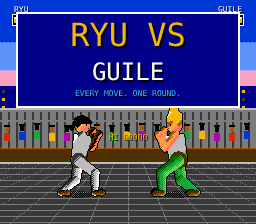
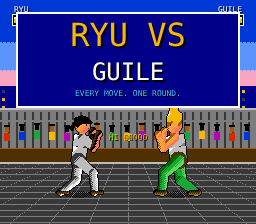
Fighter anatomy: pelvis/hips, spine, shoulders, torso twist, weight shift, ankle+heel/toe, joint-limit IK; anatomy test
Claude-Session: https://claude.ai/code/session_01TLKWsn45b5mPjBKpKawYZm

diff --git a/kit/cabinet/pixrig.js b/kit/cabinet/pixrig.js
@@ -56,19 +56,23 @@ const PRIG = (() => {
     sonic:{ lean:8, hip:56, fa:[34, 0], fb:[-34, 0], ha:[62, -2], hb:[-24, 12] }, flash:{ lean:0, hip:78, fa:[44, 104], fb:[-14, 40], ha:[10, 22], hb:[-10, 18] },
     hit:{ lean:-16, hip:58, fa:[16, 0], fb:[-20, 0], ha:[-10, -26], hb:[-22, -16] }, hitc:{ lean:-8, hip:36, fa:[34, 0], fb:[-26, 0], ha:[-6, -18], hb:[-14, -12] }, block:{ lean:2, hip:50, fa:[26, 0], fb:[-26, 0], ha:[24, 14], hb:[18, 20] }, blockc:{ lean:6, hip:34, fa:[34, 0], fb:[-26, 0], ha:[22, 10], hb:[16, 14] },
     knock:{ lean:-50, hip:70, fa:[20, 20], fb:[-10, 10], ha:[-20, 10], hb:[-30, 4] }, ko:{ lean:0, hip:62, fa:[6, 0], fb:[-6, 0], ha:[10, -34], hb:[-6, -30] }, getup:{ lean:30, hip:34, fa:[30, 0], fb:[-20, 0], ha:[24, -14], hb:[12, -10] } };
-  /* 2-bone IK. kind 'leg': knee on the +x (forward) side; kind 'arm': elbow on the lower side. (A fixed sign bent the knees BACKWARDS: that was the awkward-legs bug.) */
-  const ik = (r, p, l1, l2, kind) => { let dx = p[0] - r[0], dy = p[1] - r[1], d = Math.hypot(dx, dy), mx = l1 + l2 - 0.5; if (d > mx) { dx *= mx / d; dy *= mx / d; d = mx; } if (d < 1) d = 1;
+  /* 2-bone IK with anatomical joint limits: the bend direction is picked by the sign of cross(thigh, shin) so knees and elbows can never hyperextend. (A fixed sign bent the knees BACKWARDS: that was the awkward-legs bug.) */
+  const ik = (r, p, l1, l2, kind) => { let dx = p[0] - r[0], dy = p[1] - r[1], d = Math.hypot(dx, dy), mx = l1 + l2 - 0.5, mn = kind === 'leg' ? 14 : 12; if (d < mn) { if (d < 0.5) { dx = mn; dy = 0; } else { dx *= mn / d; dy *= mn / d; } d = mn; } if (d > mx) { dx *= mx / d; dy *= mx / d; d = mx; } if (d < 1) d = 1;
     const a = Math.acos(Math.max(-1, Math.min(1, (l1 * l1 + d * d - l2 * l2) / (2 * l1 * d)))), b0 = Math.atan2(dy, dx); let best = null;
-    for (const sg of [-1, 1]) { const b = b0 + sg * a, m = [r[0] + l1 * Math.cos(b), r[1] + l1 * Math.sin(b)], sc = kind === 'leg' ? m[0] : -m[1] - 0.15 * m[0]; if (!best || sc > best.sc) best = { m, sc }; }
+    for (const sg of [-1, 1]) { const b = b0 + sg * a, m = [r[0] + l1 * Math.cos(b), r[1] + l1 * Math.sin(b)], cx = (m[0] - r[0]) * (r[1] + dy - m[1]) - (m[1] - r[1]) * (r[0] + dx - m[0]), sc = kind === 'leg' ? -cx : cx;   /* joint limit: knee flexes only backwards (heel to buttock), elbow only forwards (forearm to chest) */ if (!best || sc > best.sc) best = { m, sc }; }
     return [best.m, [r[0] + dx, r[1] + dy]]; };
   const mix = (a, b, e) => a + (b - a) * e, mix2 = (a, b, e) => [mix(a[0], b[0], e), mix(a[1], b[1], e)];
   function skelG(pose, env, ph, rotDeg) {
     const P = PG[pose] || GUARD, e = Math.max(0, Math.min(1, env === undefined ? 1 : env)), base = (pose === 'idle' || pose === 'walk') ? GUARD : (/^(crouch|cjab|cupper|clkick|cmkick|sweep|hitc|blockc)/.test(pose) ? PG.crouch : (/^j/.test(pose) ? PG.jump : GUARD)); const J = {};
     const lean = mix(base.lean, P.lean, e), hipy = mix(base.hip, P.hip, e) + (pose === 'idle' ? 2 * Math.sin(ph || 0) : 0); let fa = mix2(base.fa, P.fa, e), fb = mix2(base.fb, P.fb, e), ha = mix2(base.ha, P.ha, e), hb = mix2(base.hb, P.hb, e);
     if (pose === 'walk') { const s = Math.sin(ph), c = Math.cos(ph); fa = [24 + 14 * s, 14 * Math.max(0, c)]; fb = [-24 - 14 * s, 14 * Math.max(0, -c)]; }
-    J.hip = [0, hipy]; J.sh = [44 * Math.sin(lean * Math.PI / 180), hipy + 44 * Math.cos(lean * Math.PI / 180)]; J.head = [J.sh[0] + 17 * Math.sin((lean - 4) * Math.PI / 180), J.sh[1] + 17 * Math.cos((lean - 4) * Math.PI / 180)];
-    [J.kneeA, J.footA] = ik([J.hip[0] + 3, J.hip[1]], [fa[0], fa[1]], 33, 33, 'leg'); [J.kneeB, J.footB] = ik([J.hip[0] - 3, J.hip[1]], [fb[0], fb[1]], 33, 33, 'leg');
-    [J.elbA, J.handA] = ik(J.sh, [J.sh[0] + ha[0], J.sh[1] + ha[1]], 27, 26, 'arm'); [J.elbB, J.handB] = ik(J.sh, [J.sh[0] + hb[0], J.sh[1] + hb[1]], 27, 26, 'arm');
+    /* anatomy: pelvis (two hip joints), spine (hip -> chest -> neck base), two shoulders, torso twist from punch reach, weight shift, ankle + heel/toe per foot */
+    const D2R = Math.PI / 180, tw = Math.max(-20, Math.min(32, (ha[0] - 28) * 0.38 - (hb[0] - 18) * 0.12)), hx = 0.12 * Math.max(0, ha[0] - 30) - 0.2 * Math.max(0, fa[0] - 34), Lr = lean * D2R;
+    J.hip = [hx, hipy]; J.chest = [hx + 24 * Math.sin(Lr * 0.8), hipy + 24 * Math.cos(Lr * 0.8)]; J.sh = [hx + 44 * Math.sin(Lr), hipy + 44 * Math.cos(Lr)]; J.head = [J.sh[0] + 17 * Math.sin((lean - 4) * D2R), J.sh[1] + 17 * Math.cos((lean - 4) * D2R)];
+    const st = Math.sin(tw * D2R); J.hipA = [J.hip[0] - 3.2 * st, hipy + 0.6]; J.hipB = [J.hip[0] + 3.2 * st, hipy - 0.6]; J.shA = [J.sh[0] + 6.5 * st, J.sh[1] - 3.5]; J.shB = [J.sh[0] - 6.5 * st, J.sh[1] - 4.5];
+    [J.kneeA, J.footA] = ik(J.hipA, [fa[0], fa[1]], 33, 33, 'leg'); [J.kneeB, J.footB] = ik(J.hipB, [fb[0], fb[1]], 33, 33, 'leg');
+    [J.elbA, J.handA] = ik(J.shA, [J.sh[0] + ha[0], J.sh[1] + ha[1]], 27, 26, 'arm'); [J.elbB, J.handB] = ik(J.shB, [J.sh[0] + hb[0], J.sh[1] + hb[1]], 27, 26, 'arm');
+    for (const q of ['A', 'B']) { const ft = J['foot' + q], kn = J['knee' + q], sa = Math.atan2(ft[1] - kn[1], ft[0] - kn[0]), ang = ft[1] < 3.5 ? 0 : sa + 80 * D2R, dx = Math.cos(ang), dy = Math.sin(ang); J['toe' + q] = [ft[0] + 11 * dx, ft[1] + 11 * dy]; J['heel' + q] = [ft[0] - 4 * dx, ft[1] - 4 * dy]; }
     const rot = (rotDeg || 0) * Math.PI / 180; if (rot) { const c = J.hip, cs = Math.cos(rot), sn = Math.sin(rot); for (const k in J) { const x = J[k][0] - c[0], y = J[k][1] - c[1]; J[k] = [c[0] + x * cs - y * sn, c[1] + x * sn + y * cs]; } }
     J.lying = pose === 'ko'; J.free = !!rot || /^j|dp|flash|tatsu|knock/.test(pose);
     if (J.lying) { const c = J.hip; for (const k in J) if (typeof J[k] === 'object') { const x = J[k][0] - c[0], y = J[k][1] - c[1]; J[k] = [c[0] - y, c[1] + x]; } const my = (J.hip[1] + J.sh[1] + J.head[1] + J.footA[1] + J.footB[1]) / 5; for (const k in J) if (typeof J[k] === 'object') J[k] = [J[k][0] - 6, J[k][1] - my + 12]; }
@@ -129,16 +133,16 @@ const PRIG = (() => {
     if (kind === 'fighter' && (vr === 'ryu' || vr === 'guile')) {
       const ry = vr === 'ryu', hd = S.head, big = ry ? 1 : 1.18, top = ry ? [DG, L, W] : [D, L, W], pants = ry ? [DG, L, W] : [F, GR, E], skin = R.skin, boot = ry ? [K, M, T] : [K, M, T];
       const Ck = (a, b, w1, w2, r, fl) => cap(a, b, w(w1 * big), w(w2 * big), r, fl);
-      Ck(S.sh, S.elbB, 6, 5, ry ? top : skin); Ck(S.elbB, S.handB, 5, 4.6, ry ? [M, R, O] : skin); cap(S.handB, S.handB, w(5.2), w(5.2), ry ? [M, R, O] : skin);
-      Ck(S.hip, S.kneeB, 8.5, 7.5, pants); Ck(S.kneeB, S.footB, 7, 5.5, pants); Ck(S.footB, f(11, 0, S.footB), 4, 5.2, boot);
-      poly(quad(S.hip, S.sh, 12.5 * k * big, 13.5 * k * big), top); if (ry) poly(quad(S.hip, S.hip, 0, 0), top); if (!ry) { poly(quad(S.hip, f(0, 0, [S.hip[0], S.hip[1] + (S.sh[1] - S.hip[1]) * 0.25]), 12.5 * k * big, 12.5 * k * big), pants); }
+      Ck(S.shB, S.elbB, 6, 5, ry ? top : skin); Ck(S.elbB, S.handB, 5, 4.6, ry ? [M, R, O] : skin); cap(S.handB, S.handB, w(5.2), w(5.2), ry ? [M, R, O] : skin);
+      Ck(S.hipB, S.kneeB, 8.5, 7.5, pants); Ck(S.kneeB, S.footB, 7, 5.5, pants); Ck(S.heelB, S.toeB, 3.6, 3, boot);
+      poly(quad(S.hip, S.chest, 11 * k * big, 12.5 * k * big), top); poly(quad(S.chest, S.sh, 12.5 * k * big, 13 * k * big), top); if (ry) poly(quad(S.hip, S.hip, 0, 0), top); if (!ry) { poly(quad(S.hip, f(0, 0, [S.hip[0], S.hip[1] + (S.sh[1] - S.hip[1]) * 0.25]), 12.5 * k * big, 12.5 * k * big), pants); }
       Ck(f(0, 0, S.hip), f(0, -2, S.hip), 12, 12, ry ? [K, DG, D] : [K, M, T], true);
-      Ck(S.hip, S.kneeA, 8.5, 7.5, pants); Ck(S.kneeA, S.footA, 7, 5.5, pants); Ck(S.footA, f(12, 0, S.footA), 4, 5.2, boot);
+      Ck(S.hipA, S.kneeA, 8.5, 7.5, pants); Ck(S.kneeA, S.footA, 7, 5.5, pants); Ck(S.heelA, S.toeA, 3.6, 3, boot);
       Ck(f(0, 7, hd), S.sh, 4.5 * big, 5.5 * big, skin); cap(hd, hd, w(13), w(13), R.skin);
       if (ry) { poly([f(-15, 0, hd), f(-13, -12, hd), f(-1, -16, hd), f(9, -12, hd), f(12, -5, hd), f(2, -5, hd), f(-9, 4, hd)], R.hair, true); Ck(f(-14, -4, hd), f(13, -5, hd), 2, 2, [M, R, O], true); poly([f(-14, -3, hd), f(-24, 4, hd), f(-18, 9, hd)], [M, R, O], true); }
       else { poly([f(-14, -3, hd), f(-13, -20, hd), f(-4, -26, hd), f(8, -24, hd), f(12, -14, hd), f(12, -6, hd), f(2, -7, hd), f(-8, 2, hd)], [T, Y, V], false); poly([f(-6, -22, hd), f(-6, -32, hd), f(6, -32, hd), f(8, -22, hd)], [T, Y, V], true); }
       put(f(7, 0, hd)[0], f(7, 0, hd)[1], K); put(f(7, -1, hd)[0], f(7, -1, hd)[1], K); put(f(10, 5, hd)[0], f(10, 5, hd)[1], M);
-      Ck(S.sh, S.elbA, 6.5, 5.5, ry ? top : skin); Ck(S.elbA, S.handA, 5.5, 5, ry ? [M, R, O] : skin); cap(S.handA, S.handA, w(5.8), w(5.8), ry ? [M, R, O] : skin);
+      Ck(S.shA, S.elbA, 6.5, 5.5, ry ? top : skin); Ck(S.elbA, S.handA, 5.5, 5, ry ? [M, R, O] : skin); cap(S.handA, S.handA, w(5.8), w(5.8), ry ? [M, R, O] : skin);
     } else if (kind === 'fighter') {
       const gi = R[vr || 'red'], hd = S.head;
       C(S.sh, S.elbB, 6, 5, gi); C(S.elbB, S.handB, 5, 4.5, 'skin'); cap(S.handB, S.handB, w(5), w(5), R.skin);

diff --git a/kit/cabinet/games/g37p.js b/kit/cabinet/games/g37p.js
@@ -108,21 +108,21 @@ function fighterHD(S, g, f, sh, sy) {
   const skin = ry ? ['#f6c58e', '#e0a070', '#a8683e'] : ['#f2c49a', '#d89c72', '#9c6040'], gi = ry ? ['#ffffff', '#e4e0da', '#8f8c9c'] : ['#e0c690', '#c0a06a', '#7a6038'], pants = ry ? ['#ffffff', '#d8d4d0', '#8a8898'] : ['#7c9c4c', '#587a38', '#2e4620'], glove = ['#ff6a50', '#d02828', '#7a1018'], boot = ry ? ['#e8c4a0', '#c08a60', '#7a4a2c'] : ['#6a6a78', '#3a3a48', '#1a1a24'];
   const sc = f.st === 'ko' || f.st === 'knock' ? 1.3 : 1; g.save(); g.fillStyle = 'rgba(0,0,0,.35)'; g.beginPath(); g.ellipse(f.x + sh, FY37 + 2, Math.max(8, 17 - f.y * .08) * sc * 1.1, 3.4, 0, 0, 6.283); g.fill(); g.restore();
   g.lineCap = 'round';
-  limb(g, Sh, P('elbB'), w(5.5), w(4.6), ry ? gi : skin, fl); limb(g, P('elbB'), P('handB'), w(4.6), w(4.2), ry ? glove : skin, fl); blob(g, P('handB')[0], P('handB')[1], w(5.2), w(5.2), ry ? glove : skin, fl);
-  limb(g, Hp, P('kneeB'), w(8.6), w(6.4), pants, fl); limb(g, P('kneeB'), P('footB'), w(6.2), w(4.4), pants, fl); const fb = P('footB'); blob(g, fb[0] + fc * w(4), fb[1] - w(1.2), w(6.4), w(3.2), boot, fl);
+  limb(g, P('shB'), P('elbB'), w(5.5), w(4.6), ry ? gi : skin, fl); limb(g, P('elbB'), P('handB'), w(4.6), w(4.2), ry ? glove : skin, fl); blob(g, P('handB')[0], P('handB')[1], w(5.2), w(5.2), ry ? glove : skin, fl);
+  limb(g, P('hipB'), P('kneeB'), w(8.6), w(6.4), pants, fl); limb(g, P('kneeB'), P('footB'), w(6.2), w(4.4), pants, fl); limb(g, P('heelB'), P('toeB'), w(3.9), w(3), boot, fl);
   /* torso: tapered trapezoid, wider at the shoulders, with belt/waistband */
   const ax = Sh[0] - Hp[0], ay = Sh[1] - Hp[1], an = Math.hypot(ax, ay) || 1, tx = -ay / an, ty = ax / an, ws = w(15), wh = w(11.5);
-  poly(g, [[Hp[0] + tx * wh, Hp[1] + ty * wh], [Sh[0] + tx * ws, Sh[1] + ty * ws], [Sh[0] - tx * ws, Sh[1] - ty * ws], [Hp[0] - tx * wh, Hp[1] - ty * wh]], gi, fl);
+  const Ch = P('chest'), wc = w(13); poly(g, [[Hp[0] + tx * wh, Hp[1] + ty * wh], [Ch[0] + tx * wc, Ch[1] + ty * wc], [Ch[0] - tx * wc, Ch[1] - ty * wc], [Hp[0] - tx * wh, Hp[1] - ty * wh]], gi, fl); poly(g, [[Ch[0] + tx * wc, Ch[1] + ty * wc], [Sh[0] + tx * ws, Sh[1] + ty * ws], [Sh[0] - tx * ws, Sh[1] - ty * ws], [Ch[0] - tx * wc, Ch[1] - ty * wc]], gi, fl);
   const bx = Hp[0] + ax * .12, by = Hp[1] + ay * .12; poly(g, [[bx + tx * wh, by + ty * wh], [bx + tx * wh * 1.02 + ax * .14, by + ty * wh + ay * .14], [bx - tx * wh + ax * .14, by - ty * wh + ay * .14], [bx - tx * wh, by - ty * wh]], ry ? ['#38384a', '#14141c', '#050508'] : ['#6a5a3a', '#3a2e1c', '#1a1208'], fl);
   if (ry) { const nk = [Sh[0] + ax * .02, Sh[1] + ay * .02]; g.strokeStyle = '#8f8c9c'; g.lineWidth = 1; g.beginPath(); g.moveTo(nk[0] - tx * w(2), nk[1] - ty * w(2)); g.lineTo(Hp[0] + ax * .5 + tx * w(1), Hp[1] + ay * .5 + ty * w(1)); g.stroke(); }
   else { g.fillStyle = '#c8c8d0'; g.fillRect(Sh[0] - ax * .1 - 1, Sh[1] - ay * .1, 1.6, 2.4); }
-  limb(g, Hp, P('kneeA'), w(9), w(6.8), pants, fl); limb(g, P('kneeA'), P('footA'), w(6.6), w(4.6), pants, fl); const fa = P('footA'); blob(g, fa[0] + fc * w(4), fa[1] - w(1.2), w(6.8), w(3.4), boot, fl);
+  limb(g, P('hipA'), P('kneeA'), w(9), w(6.8), pants, fl); limb(g, P('kneeA'), P('footA'), w(6.6), w(4.6), pants, fl); limb(g, P('heelA'), P('toeA'), w(4.1), w(3.1), boot, fl);
   /* head: neck, face, hair, headband tails / flat-top */
   limb(g, Sh, H, w(5), w(4.6), skin, fl); blob(g, H[0], H[1], w(8.4), w(9.4), skin, fl);
   if (ry) { g.fillStyle = fl ? '#fff' : '#201418'; g.beginPath(); g.ellipse(H[0] - fc * w(1.2), H[1] - w(3), w(8.8), w(7), 0, Math.PI, 6.283); g.fill(); g.fillStyle = fl ? '#fff' : '#e03030'; g.fillRect(H[0] - w(9), H[1] - w(4.4), w(18), w(3.2)); const t = S.rt * 9; for (let i = 0; i < 2; i++) { g.strokeStyle = fl ? '#fff' : '#e03030'; g.lineWidth = w(2); g.beginPath(); g.moveTo(H[0] - fc * w(8), H[1] - w(3)); g.lineTo(H[0] - fc * (w(16) + i * 3), H[1] - w(3) + Math.sin(t + i) * 2 + i * 3); g.stroke(); } }
   else { g.fillStyle = fl ? '#fff' : '#f4dc58'; g.beginPath(); g.moveTo(H[0] - w(8.4), H[1] - w(2)); g.lineTo(H[0] - w(7), H[1] - w(13)); g.lineTo(H[0] + w(8), H[1] - w(13)); g.lineTo(H[0] + w(8.6), H[1] - w(3)); g.lineTo(H[0] + w(4), H[1] - w(5)); g.lineTo(H[0] - w(4), H[1] - w(5)); g.closePath(); g.lineWidth = 1.6; g.strokeStyle = OL; g.stroke(); g.fill(); }
   const ex = H[0] + fc * w(4.6), ey = H[1] - w(.6); g.fillStyle = fl ? '#fff' : OL; g.fillRect(ex - .5, ey - w(1.4), 1.5, w(2.6)); g.fillRect(ex - fc * w(3.2) - .5, ey - w(1.4), 1.5, w(2.6)); g.fillRect(ex - fc * w(1) - w(2), ey - w(3.4), w(7) * 0.9, 1); g.fillRect(ex - w(1) + fc, H[1] + w(4.6), w(3.4), 1);
-  blob(g, P('handA')[0], P('handA')[1], w(5.6), w(5.6), ry ? glove : skin, fl); limb(g, Sh, P('elbA'), w(5.8), w(4.8), ry ? gi : skin, fl); limb(g, P('elbA'), P('handA'), w(4.8), w(4.4), ry ? glove : skin, fl); blob(g, P('handA')[0], P('handA')[1], w(5.6), w(5.6), ry ? glove : skin, fl);
+  blob(g, P('handA')[0], P('handA')[1], w(5.6), w(5.6), ry ? glove : skin, fl); limb(g, P('shA'), P('elbA'), w(5.8), w(4.8), ry ? gi : skin, fl); limb(g, P('elbA'), P('handA'), w(4.8), w(4.4), ry ? glove : skin, fl); blob(g, P('handA')[0], P('handA')[1], w(5.6), w(5.6), ry ? glove : skin, fl);
 }
 function drawHD37(S, g) {
   const C = TUNE37, sh = S.ecam && S.ecam.sh > 0 ? (S.rng() - .5) * S.ecam.sh * .5 : 0, sy = S.ecam && S.ecam.sh > 3 ? (S.rng() - .5) * S.ecam.sh * .3 : 0, t = S.rt;
@@ -221,6 +221,7 @@ const GAME = kit({ id:'g37p', t1:'RYU VS', t2:'GUILE', sub:'16-BIT. EVERY MOVE.'
   info(S) { const q = f => f.mv ? f.mv.id : f.st; return { x1:Math.round(S.p1.x), x2:Math.round(S.p2.x), hp1:Math.round(S.p1.hp), hp2:Math.round(S.p2.hp), st1:S.p1.st, st2:S.p2.st, mv1:q(S.p1), mv2:q(S.p2), y1:Math.round(S.p1.y), pr:S.pr.length, tl:+S.timeLeft.toFixed(1), c1:S.p1.chB, cr1:S.p1.cr ? 1 : 0, face1:S.p1.face }; },
   bot(S, i) { S.botOn = true; i.cmdI = {}; return i; } });
 function poseOf37(S, f) {
+  if (f.force) return f.force;
   const e = x => Math.max(0, Math.min(1, x));
   if (f.st === 'atk' && f.mv) { const m = f.mv, [s, a, r] = m.C.f, t = m.t; let env = t <= s ? e(t / s) : t <= s + a ? 1 : e(1 - (t - s - a) / r); let pose = m.C.pose, rot = 0, ph = f.ph;
     if (m.C.air && !m.special) env = e(t / 3); if (m.special && m.C.flip) { rot = 340 * Math.min(1, (t - m.C.f[0]) / 20); if (t < m.C.f[0]) rot = 0; env = 1; } if (m.special && m.C.spin) { pose = (Math.floor(t / 4) & 1) ? 'tatsu2' : 'tatsu'; env = t < s ? e(t / s) : 1; if (t > s + a) env = e(1 - (t - s - a) / r); }
@@ -235,3 +236,7 @@ function poseOf37(S, f) {
 window.__posesheet = (ch, names) => { rect(0, 0, 256, 224, K); rect(0, 150, 256, 74, DG); rect(0, 150, 256, 2, L);
   names.forEach((p, i) => { const col = i % 4, row = Math.floor(i / 4), x = 32 + col * 64, y = 70 + row * 70, free = /^j|dp|flash|tatsu|knock/.test(p); PRIG.draw('fighter', ch, p, x, y + (free ? -6 : 0), 1, 0.5, { sc:56, env:1, rot:p === 'flash' ? 200 : p === 'knock' ? 60 : 0 }); txt(p, x, y + 6, W, 8, 'center'); });
   for (let i = 0; i < buf.length; i++) px32[i] = PAL32[buf[i]]; ctx.putImageData(img, 0, 0); return document.getElementById('screen').toDataURL(); };
+window.__skelG = (...a) => PRIG.skelG(...a); /* QA hook: anatomy check */
+window.__posesheetHD = (ch, names) => { const g = document.getElementById('screen').getContext('2d'), S = { rt:0, rng:Math.random, ecam:null, combo:0, over:0 }; g.setTransform(3, 0, 0, 3, 0, 0); g.fillStyle = '#5a4a62'; g.fillRect(0, 0, 256, 224); g.fillStyle = '#a06a42'; g.fillRect(0, 150, 256, 74);
+  names.forEach((p, i) => { const col = i % 4, row = Math.floor(i / 4), f = { ch, x:32 + col * 64, y:FY37 - (80 + row * 72) + (/^j|dp|flash|tatsu|knock/.test(p) ? 14 : 0), face:1, st:'idle', flash:0, force:{ pose:p, env:1, ph:1.2, rot:0 } }; fighterHD(S, g, f, 0, 0); });
+  PIXPASS(g); return document.getElementById('screen').toDataURL(); };

diff --git a/kit/cabinet/games/g37.js b/kit/cabinet/games/g37.js
@@ -174,3 +174,4 @@ function poseOf37(S, f) {
 window.__posesheet = (ch, names) => { rect(0, 0, 256, 224, K); rect(0, 150, 256, 74, DG); rect(0, 150, 256, 2, L);
   names.forEach((p, i) => { const col = i % 4, row = Math.floor(i / 4), x = 32 + col * 64, y = 70 + row * 70, free = /^j|dp|flash|tatsu|knock/.test(p); PRIG.draw('fighter', ch, p, x, y + (free ? -6 : 0), 1, 0.5, { sc:56, env:1, rot:p === 'flash' ? 200 : p === 'knock' ? 60 : 0 }); txt(p, x, y + 6, W, 8, 'center'); });
   for (let i = 0; i < buf.length; i++) px32[i] = PAL32[buf[i]]; ctx.putImageData(img, 0, 0); return document.getElementById('screen').toDataURL(); };
+window.__skelG = (...a) => PRIG.skelG(...a); /* QA hook: anatomy check */
